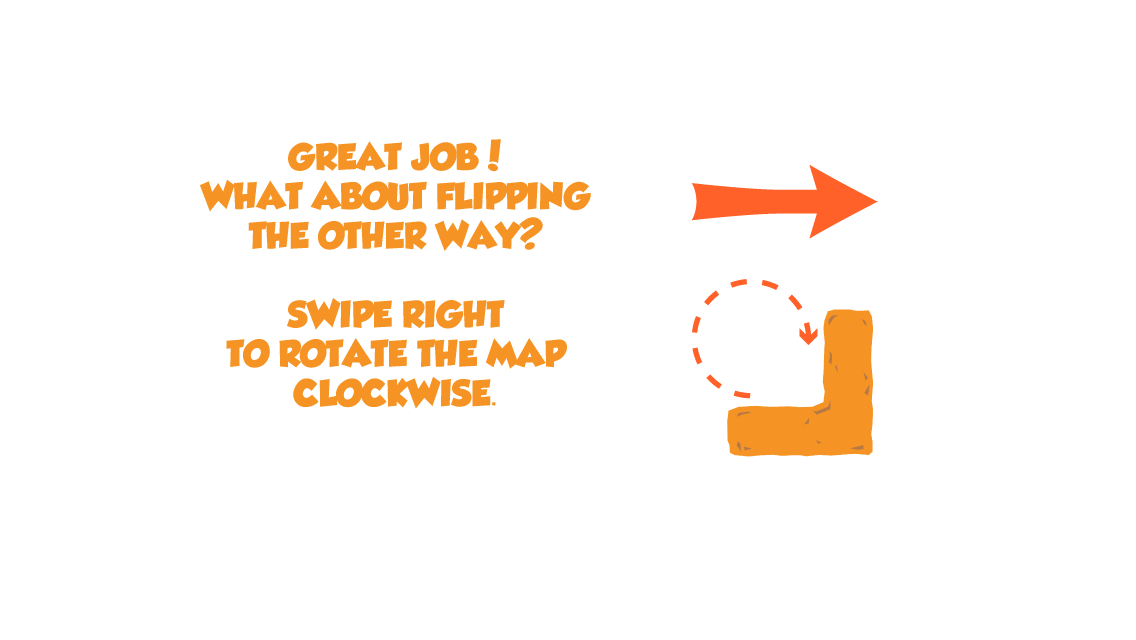
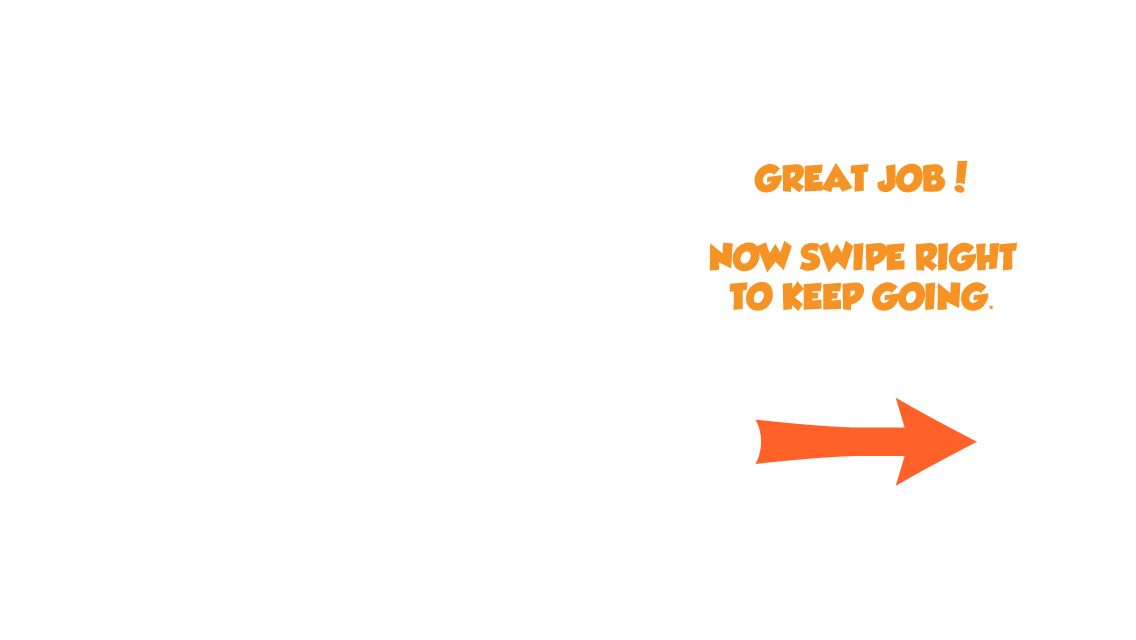
worked on rearramgement

diff --git a/CollisionTest/CollisionTest/Hud.mm b/CollisionTest/CollisionTest/Hud.mm
@@ -11,6 +11,7 @@
 #import "GB2Sprite.h"
 #import "GameScene.h"
 #import "MainMenuScene.h"
+#import "LevelMenuScene.h"
 
 @implementation Hud
 
@@ -21,29 +22,30 @@
     if( (self=[super init]))
     {
         // Pause button
+        CGSize winSize = [[CCDirector sharedDirector] winSize];
         pauseButton = [CCSprite spriteWithFile:@"Pause icon.png"];
-        pauseButton.position = ccp(30,30);
+        pauseButton.position = ccp(winSize.width - 30,winSize.height-30);
         pauseButtonRect = CGRectMake((pauseButton.position.x-(pauseButton.contentSize.width)/2), (pauseButton.position.y-(pauseButton.contentSize.height)/2), (pauseButton.contentSize.width), (pauseButton.contentSize.height));
         [self addChild:pauseButton z:5000];
         [self addPauseLayer];
         
         // points
         CCSprite *bananaPoints = [CCSprite spriteWithFile:@"banana single.png"];
-        CCSprite *mult = [CCLabelTTF labelWithString:@"X"
-                                            fontName:@"GROBOLD"
-                                            fontSize:30];
-        bananaPoints.position = ccp(20, 290);
-        mult.position = ccp(55, 290);
-        mult.color=ccc3(245, 148, 36);
+//        CCSprite *mult = [CCLabelTTF labelWithString:@"X"
+//                                            fontName:@"GROBOLD"
+//                                            fontSize:30];
+        bananaPoints.position = ccp(230, 290);
+//        mult.position = ccp(55, 290);
+//        mult.color=ccc3(245, 148, 36);
         [self addChild:bananaPoints z:50];
-        [self addChild:mult z:50];
+//        [self addChild:mult z:50];
         
         scoreDelay = 10;
         scoreLabel = [CCLabelTTF labelWithString:@"0"
                                         fontName:@"GROBOLD"
-                                        fontSize:40];
+                                        fontSize:30];
         scoreLabel.color = ccc3(245, 148, 36);
-        scoreLabel.position = ccp(95,290);
+        scoreLabel.position = ccp(280,290);
         [self addChild:scoreLabel z:50];
     }
     
@@ -62,28 +64,35 @@
                               winSize.height/2-colorLayer.contentSize.height/2);
     
     CCMenuItemImage *resume = [CCMenuItemImage
-                               itemWithNormalImage:@"Play icon.png"
+                               itemWithNormalImage:@"Play icon large.png"
                                selectedImage:nil
                                target:self
                                selector:@selector(resumeGame)];
-    resume.position = ccp(-winSize.width/5,0);
+    resume.position = ccp(0, winSize.height/10);
     
     CCMenuItemImage *restart = [CCMenuItemImage
                                 itemWithNormalImage:@"Return icon.png"
                                 selectedImage:nil
                                 target:self
                                 selector:@selector(restartGame)];
-    restart.position = ccp(0,0);
+    restart.position = ccp(-winSize.width/5,-winSize.height/7);
     
     CCMenuItemImage *home = [CCMenuItemImage
                              itemWithNormalImage:@"Home icon.png"
                              selectedImage:nil
                              target:self
                              selector:@selector(goHome)];
-    home.position = ccp(winSize.width/5,0);
-    
-    
-    CCMenu *menu =  [CCMenu menuWithItems: resume, restart, home, nil];
+    home.position = ccp(0,-winSize.height/7);
+  
+  CCMenuItemImage *level = [CCMenuItemImage
+                              itemWithNormalImage:@"Levels icon.png"
+                              selectedImage:nil
+                              target:self
+                              selector:@selector(goLevels)];
+  level.position = ccp(winSize.width/5,-winSize.height/7);
+  
+  
+    CCMenu *menu =  [CCMenu menuWithItems: resume, restart, home, level, nil];
     [pauseLayer addChild:colorLayer];
     [pauseLayer addChild:menu];
     pauseLayer.visible = NO;
@@ -130,6 +139,13 @@
     [[CCDirector sharedDirector] resume];
     [[GB2Engine sharedInstance] deleteAllObjects];
     [[CCDirector sharedDirector] replaceScene:[MainMenuScene scene]];
+}
+
+-(void)goLevels
+{
+  [[CCDirector sharedDirector] resume];
+  [[GB2Engine sharedInstance] deleteAllObjects];
+  [[CCDirector sharedDirector] replaceScene:[LevelMenuScene scene]];
 }
 
 @end

diff --git a/CollisionTest/CollisionTest/LevelMenuScene.mm b/CollisionTest/CollisionTest/LevelMenuScene.mm
@@ -51,15 +51,15 @@ int gameMode;
                                selectedImage:nil
                                target:self
                                selector:@selector(goHome)];
-    home.position = ccp(-winSize.width/7,-winSize.height/3);
+    home.position = ccp(0,-winSize.height/3);
     
-    //quick tutorial tip
-    CCMenuItemImage *tip = [CCMenuItemImage
-                             itemWithNormalImage:@"Question icon.png"
-                             selectedImage:nil
-                             target:self
-                             selector:@selector(loadTutorial)];
-    tip.position = ccp(winSize.width/7,-winSize.height/3);
+//    //quick tutorial tip
+//    CCMenuItemImage *tip = [CCMenuItemImage
+//                             itemWithNormalImage:@"Question icon.png"
+//                             selectedImage:nil
+//                             target:self
+//                             selector:@selector(loadTutorial)];
+//    tip.position = ccp(winSize.width/7,-winSize.height/3);
     
     CCMenuItemImage *level1 = [CCMenuItemImage
                                     itemWithNormalImage:@"Level 1.png"
@@ -158,7 +158,7 @@ int gameMode;
     level12.tag = 12;
     
     
-    CCMenu *menu = [CCMenu menuWithItems: home, tip,
+    CCMenu *menu = [CCMenu menuWithItems: home,
                     level1, level2, level3, level4,
                     level5, level6, level7, level8,
                     level9, level10, level11, level12,nil];
@@ -181,7 +181,7 @@ int gameMode;
 
 -(void) loadTutorial
 {
-  [[CCDirector sharedDirector] replaceScene:[TutorialScene scene]];
+  //[[CCDirector sharedDirector] replaceScene:[TutorialScene scene]];
 }
 
 - (void) dealloc

diff --git a/CollisionTest/CollisionTest/GameScene.mm b/CollisionTest/CollisionTest/GameScene.mm
@@ -179,7 +179,25 @@ CCSprite *tutorial;
         [hud updateBananaScore:plushy.bananaScore];
         scoreDelay = 10;
     }
-    
+  
+  if ([plushy showTip] != -1 && [MainMenuScene showTips]) {
+    showingTip = [plushy showTip];
+    switch (showingTip) {
+      case 0: case 2:
+        [self pauseGame];
+        tutorial = [CCSprite spriteWithFile:[NSString stringWithFormat:@"tutorial %d.png", showingTip]];
+        tutorial.position = ccp(winSize.width/3, winSize.height/2);
+        [self addChild:tutorial z:500];
+        [plushy setTip];
+        break;
+        
+      default:
+        break;
+    }
+    // show the tool tips and imgs
+    // when swife, resume
+  }
+  
 //    float swipeLength = ccpDistance([maze ccNode].position, [plushy ccNode].position);
     //NSLog(@"Maze to plushy distance is: %f", swipeLength);
 //    NSLog(@"Maze pos: (%f, %f)", [maze ccNode].position.x, [maze ccNode].position.y);
@@ -393,6 +411,11 @@ CCSprite *tutorial;
     }
     else
     {
+      if ((showingTip == 0 || showingTip == 2) && [MainMenuScene showTips]) {
+        [self resumeGame];
+        [self removeChild:tutorial cleanup:YES];
+        showingTip = -1;
+      }
         //Check if the swipe is a left swipe and long enough
         if (firstTouch.x > lastTouch.x && swipeLength > 60) //left swipe (90)
         {
@@ -546,6 +569,14 @@ CCSprite *tutorial;
     [[CCDirector sharedDirector] pause];
 //    pauseButton.visible = NO;
     hud.pauseButton.visible = NO;
+}
+
+
+-(void)resumeGame
+{
+  [self resumeSchedulerAndActions];
+  [[CCDirector sharedDirector] resume];
+  hud.pauseButton.visible = YES;
 }
 
 //-(void)addTapRecognizer

diff --git a/CollisionTest/CollisionTest/GameOverScene.mm b/CollisionTest/CollisionTest/GameOverScene.mm
@@ -84,11 +84,11 @@ int levelScore;
                                 selector:@selector(nextLevel)];
     next.position = ccp(-winSize.width*1/24,-winSize.height/7);
       
-      CCLabelTTF *scoreLabel = [CCLabelTTF labelWithString:[NSString stringWithFormat:@"Score: %d",levelScore]
+      CCLabelTTF *scoreLabel = [CCLabelTTF labelWithString:[NSString stringWithFormat:@"SCORE: %d",levelScore]
                                                   fontName:@"GROBOLD"
-                                                  fontSize:35];
+                                                  fontSize:23];
       scoreLabel.color = ccc3(245, 148, 36);
-      scoreLabel.position = ccp(-winSize.width*4/24,-winSize.height/50);
+      scoreLabel.position = ccp(-winSize.width*4/24,-winSize.height/10);
       CCMenuItemLabel *score = [CCMenuItemLabel itemWithLabel:scoreLabel]; 
     CCMenu *menu = (congrats && (curLevel != 6)) ? [CCMenu menuWithItems: home, restart, next,score, nil]
     : [CCMenu menuWithItems: home, restart, nil];

diff --git a/CollisionTest/CollisionTest/Plushy.mm b/CollisionTest/CollisionTest/Plushy.mm
@@ -192,12 +192,12 @@
 
 -(void) loadLives
 {
-    CGSize winSize = [[CCDirector sharedDirector] winSize];
+    //CGSize winSize = [[CCDirector sharedDirector] winSize];
     int x_pos = 20;
     hearts = [[NSMutableArray alloc] initWithCapacity:3];
     for (int i=0; i<3; i++) {
         CCSprite *aHeart = [CCSprite spriteWithFile:@"heart.png"]; //TODO: for now using the button
-        aHeart.position = ccp(winSize.width-x_pos, 290);
+        aHeart.position = ccp(x_pos, 290);
         x_pos += 30;
         [hearts addObject:aHeart];
         [gameLayer.hud addChild:aHeart z:100];

diff --git a/CollisionTest/CollisionTest/MainMenuScene.mm b/CollisionTest/CollisionTest/MainMenuScene.mm
@@ -43,9 +43,9 @@ CCLayer *settingLayer;
     background.position = ccp(winSize.width/2, winSize.height/2);
     [self addChild:background];
     
-    //    CCSprite *centerImage = [CCSprite spriteWithFile:@"Plushy Run.png"];
-    //    centerImage.position = ccp(winSize.width/2, winSize.height/2);
-    //    [background addChild:centerImage];
+//    CCSprite *centerImage = [CCSprite spriteWithFile:@"main menu image.png"];
+//    centerImage.position = ccp(winSize.width/2, winSize.height/1.7);
+//    [background addChild:centerImage];
     mute=YES;
     tipsOn=YES;
     
